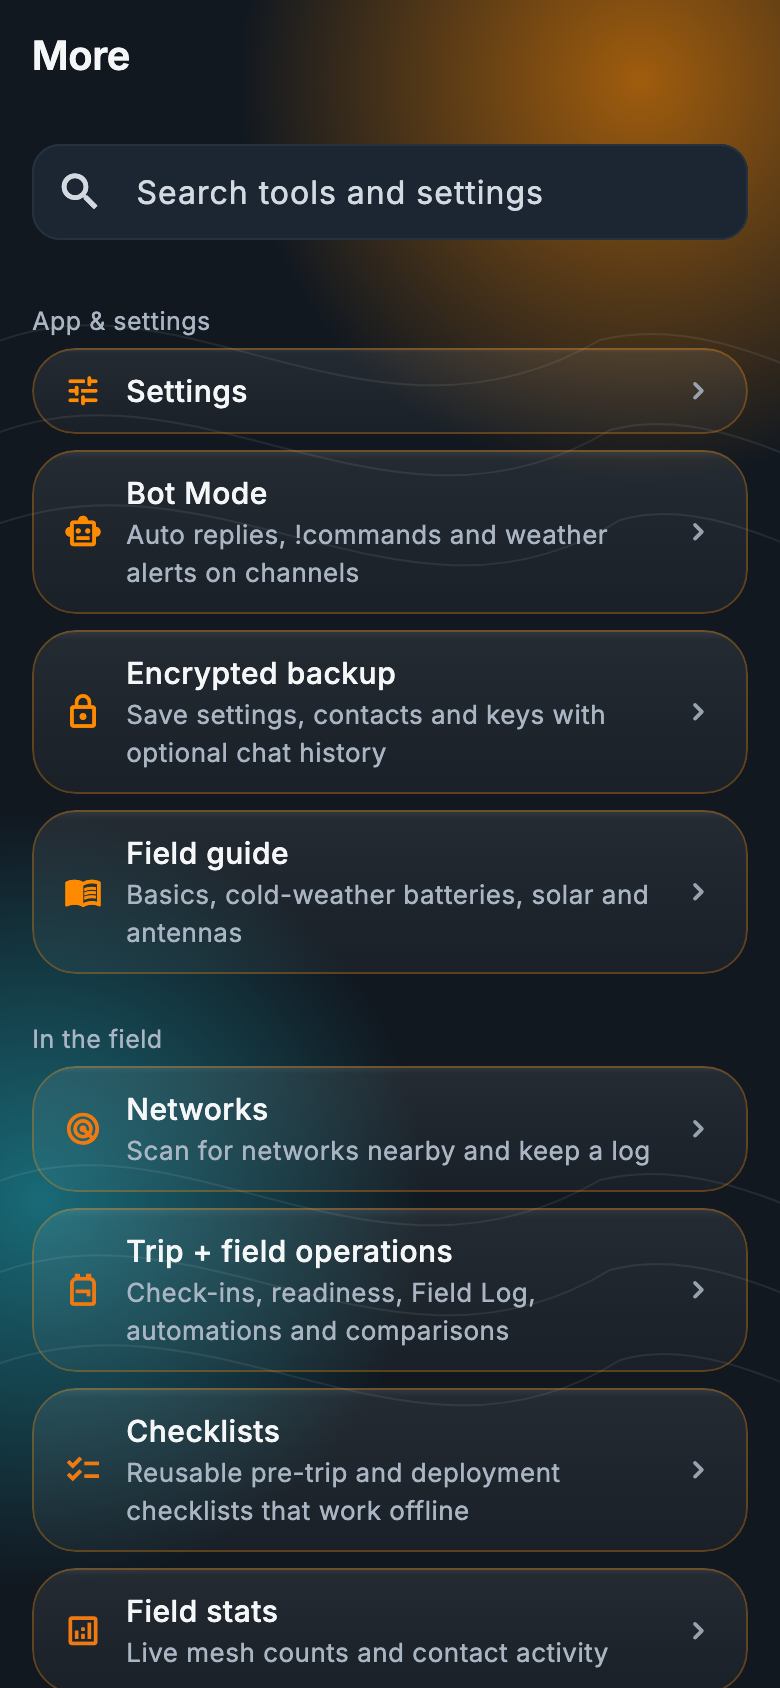
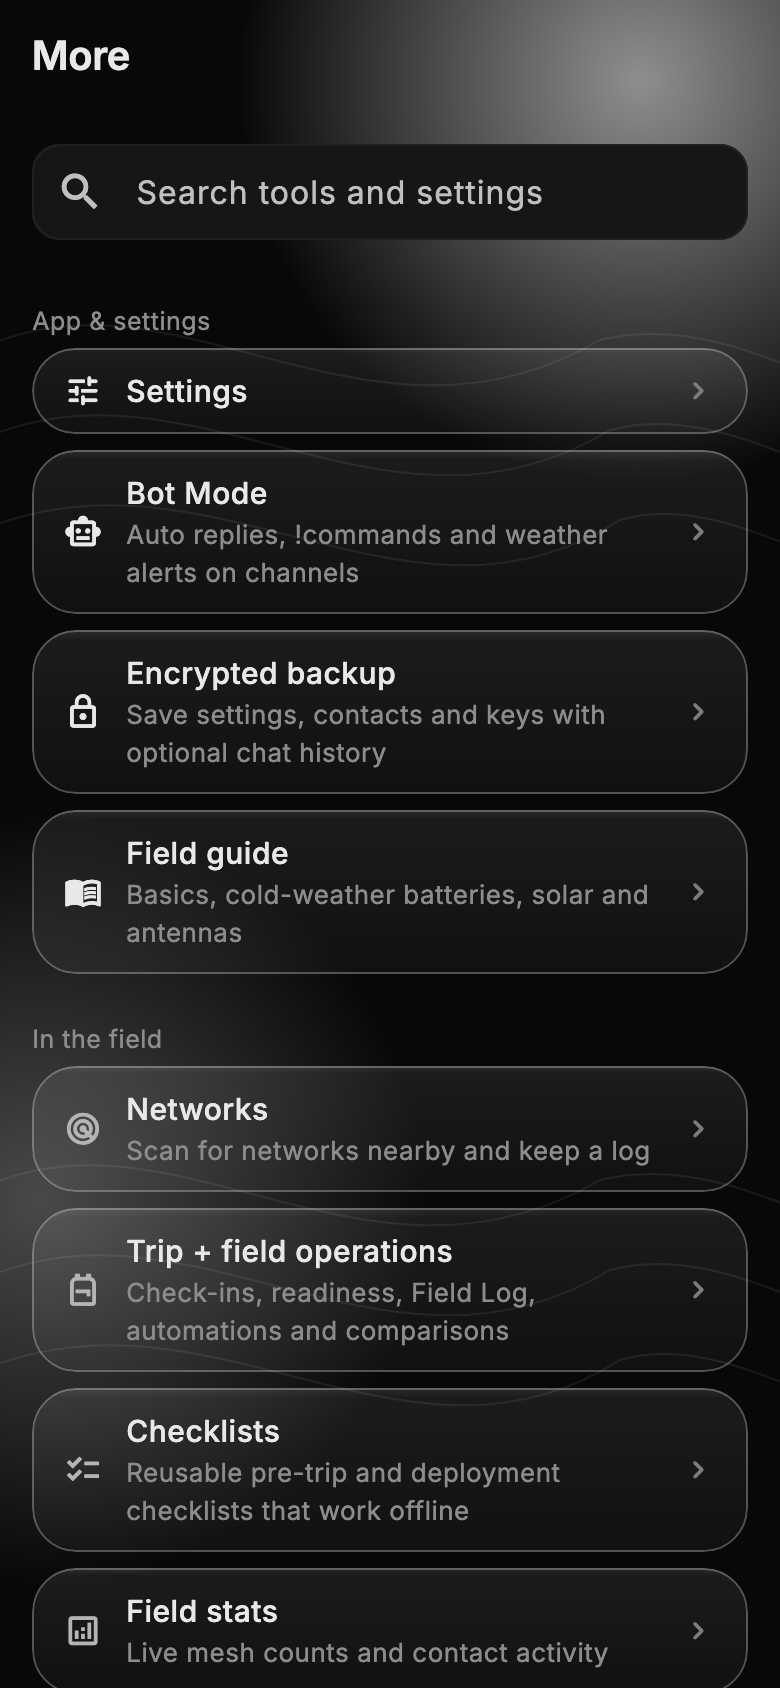
Refresh the README for BLACKOUT with new screenshots
BLACKOUT banner and icon, new screenshots of the next build's look,
the test-build section moved to rc.16 (SARNEG, rebuilt wardrive, 5,000
nodes), five themes instead of eight, and stale images removed.

diff --git a/README.md b/README.md
@@ -1,5 +1,5 @@
 <p align="center">
-  <img src="images/icon.png" width="120" alt="NOTORYX app icon">
+  <img src="images/banner.png" width="100%" alt="NOTORYX Core: Engineered for independence.">
 </p>
 
 # NOTORYX Core downloads
@@ -14,17 +14,25 @@ This repository hosts NOTORYX Core builds for Android and Mac. Get the latest fr
 
 New since rc.47: **multiple radios**, **notifications for each channel** (all, mentions only or muted), an **airtime estimate** while you type, **KML and GeoJSON import**, a **firmware update guide**, and lower CPU use over USB on Mac. Not yet tested on real radios or phones.
 
-**Test build: [10.1.0-rc.10](../../releases/tag/v10.1.0-rc.10)** (19 November 2026) lets the search in **More** find the message filter and notification settings. rc.9 made the range rings fill more of the map, and with rc.7 and rc.8 the 10.1.0 line fixes the Android start-screen hang and adds a **live traffic map** that draws heard packets hop by hop, a **stale-node badge** for nodes that have gone quiet, **range rings** around your position on the map, an on-device **spam filter** for channel chats (SOS and emergency posts are never filtered), and a button to **reset routing settings** to their defaults. rc.9 was checked on one Android phone with one radio (traffic map, range rings, Mark as spam / Not spam, reset routing); the spam filter hasn't yet caught a real message on its own, and several radios at once haven't been tried. From rc.1 to rc.6 it also has a **compass that points to any node**, a **photo or color for any node**, your own **background** behind the glass panels, the **Fresnel zone** on line of sight, **failed sends marked in the Nodes list**, chats that stay open while a dropped radio link reconnects, **Map + coverage**, **SOS resume** after a restart, identity key backup, a map-as-a-list view for screen readers, a safer offline queue, and each nearby repeater listed once. 10.0.0 stays the one to rely on.
+**Test build: [10.1.0-rc.16](../../releases/tag/v10.1.0-rc.16)** (21 November 2026), Android only for now. The 10.1.0 test builds add:
 
-**Coming in the next build: SARNEG code words.** Send grids, frequencies and times as letters from a code word your team agrees on, and tap a received `[SARNEG]` message to decode it. The same format and code-word QR code work in every NOTORYX app. It keeps numbers away from a casual listener; it isn't encryption. [What SARNEG is and why we added it](https://meshmayhem.org/notoryx/#sarneg).
+- **SARNEG code words** (rc.11): send grids, frequencies and times as letters from a code word your team agrees on, and tap a received `[SARNEG]` message to decode it. The same format and code-word QR code work in every NOTORYX app. It keeps numbers away from a casual listener; it isn't encryption. The SARNEG screen blocks screenshots (rc.15). [What SARNEG is and why we added it](https://meshmayhem.org/notoryx/#sarneg).
+- **Wardrive, rebuilt** (rc.15, colours fixed in rc.16): Discovery, Trace, Channel and Hybrid modes, free coverage from packets you hear anyway, 100 m or 300 m coverage squares, per-repeater stats, a noise-floor graph and export to GPX, KML, CSV or GeoJSON.
+- **Up to 5,000 remembered nodes** (rc.13, rc.14), including contacts your radio drops when its list is full, and **Import nodes** from a file or the clipboard.
+- A **live traffic map** that draws heard packets hop by hop, a **stale-node badge**, **range rings**, an on-device **spam filter** for channel chats (SOS and emergency posts are never filtered) and **reset routing** (rc.7 to rc.10).
+- From rc.1 to rc.6: a **compass that points to any node**, a **photo or color for any node**, your own **background**, the **Fresnel zone** on line of sight, **failed sends marked in the Nodes list**, chats that stay open while a dropped link reconnects, **Map + coverage**, **SOS resume** after a restart, identity key backup and a map-as-a-list view for screen readers.
+
+rc.16 was checked on one Android phone (wardrive screen, SARNEG screenshot block); wardrive hasn't been driven with a radio yet. The newest Mac build is [10.1.0-rc.10](../../releases/tag/v10.1.0-rc.10). 10.0.0 stays the one to rely on.
+
+**Coming in the next build: the BLACKOUT look.** A new steel eagle-N app icon and a matte-black **BLACKOUT** theme as the default, as in the screenshots here. Tactical, Okabe-Ito, Night Ops and Seasonal stay; Blaze, Neon Anarchy, Pink Overload and Bare Beauty are retired, and anyone using them moves to BLACKOUT.
 
 **Report a problem:** [open an issue](../../issues).
 
 <p align="center">
-  <img src="images/home.png" width="190" alt="Home: radio readouts, check-in, SOS and field tools on frosted glass">
+  <img src="images/home.png" width="190" alt="Home: radio readouts, check-in, hold for SOS and field tools">
   <img src="images/chats.png" width="190" alt="Chats: channels and direct conversations">
   <img src="images/nodes.png" width="190" alt="Nodes: repeaters, people, rooms and sensors with hop counts">
-  <img src="images/more.png" width="190" alt="More: every tool and setting, searchable">
+  <img src="images/traffic_map.png" width="190" alt="Live traffic map: a packet's route drawn hop by hop">
 </p>
 
 ## Why NOTORYX Core?
@@ -37,8 +45,9 @@ NOTORYX Core turns your phone or Mac and a [MeshCore](https://meshcore.io/) radi
 - **It gets your radio on the right settings.** MeshCore's community presets (USA, Canada, EU/UK, Australia and more) are built in, with the one for your country suggested first. It also knows settings local meshes have agreed on, and warns you when your radio doesn't match.
 - **It helps you find people.** A directory of public channels, channels heard on air that you haven't joined, and the #channels active online right now, each one tap to join.
 - **It reaches past the horizon.** The optional MQTT bridge shows MeshCore traffic from beyond radio range, clearly labeled **via MQTT** so it never pretends to be a radio repeat.
-- **It shows you where the mesh reaches.** Wardrive maps which repeaters hear you as you drive or hike, and telemetry badges put battery, temperature, humidity and pressure right on the map.
-- **It looks the part.** The Frosted ember look puts see-through glass over a warm glow, or over your own color, gradient or photo. Eight themes, including Night Ops to keep your night vision, a Seasonal theme and a color-blind safe Okabe-Ito theme, all checked for readable contrast.
+- **It shows you where the mesh reaches.** Wardrive maps which repeaters hear you as you drive or hike, square by square, and telemetry badges put battery, temperature, humidity and pressure right on the map.
+- **It keeps numbers off the air.** SARNEG code words turn grids, frequencies and times into letters your team can decode with one tap.
+- **It looks the part.** The BLACKOUT look (next build) is matte black, steel and frost, with see-through glass panels over a soft glow, or over your own color, gradient or photo. Five themes, including Night Ops to keep your night vision, a Seasonal theme and a color-blind safe Okabe-Ito theme, all checked for readable contrast.
 - **It runs more than one radio.** Stay connected to a handheld and a base station at once and switch between them.
 - **It speaks your language.** 18 languages.
 - **It runs your whole kit.** Repeaters, room servers, sensors, access control, a command line and Wi-Fi setup are all in one app.
@@ -79,6 +88,8 @@ NOTORYX Core turns your phone or Mac and a [MeshCore](https://meshcore.io/) radi
 - **Airtime estimate** while you type, and **per-channel notifications** (all, mentions only or muted).
 - **Share your position or a contact** from the message box. Received contacts can be added in one tap, tapping a `meshcore://` contact link in another app opens it in NOTORYX Core, and **Add contact from clipboard** accepts links, adverts (even wrapped across lines) and bare public keys.
 - **Discovered contacts:** add one with a tap, or long-press to pick several (or **Add all shown**) and add them together, up to the room left on your radio.
+- **Remembers up to 5,000 heard nodes**, including contacts your radio drops when its list is full. **Import nodes** reads a JSON or CSV list, contact links, adverts or public keys from a file or the clipboard.
+- **SARNEG code words:** a SARNEG button in the message box codes the numbers you typed, a received `[SARNEG]` message gets a tap-to-decode line, and the code word can be shared by QR code. Not encryption. The SARNEG screen blocks screenshots.
 - **Region tags:** a channel post scoped to a region shows it next to the time, for example **📍 ct**.
 - **Read messages aloud** (optional) and on-device translation.
 - **Area-limited channel messages** that stay within a radius of you (needs radios running flood-corridor firmware).
@@ -88,7 +99,7 @@ NOTORYX Core turns your phone or Mac and a [MeshCore](https://meshcore.io/) radi
 ### Maps, paths and coverage
 - Live mesh map with **offline map packs**, and a button to jump to your position (phone GPS, or your radio's).
 - **Map telemetry:** battery, temperature, humidity or pressure badges on the map. Readings dim after an hour and hide after a day, and the map remembers your choice.
-- **Wardrive:** ping every 20 s to 2 min as you move and map which repeaters heard you, and how well, both ways. Pings use your phone's GPS, the map follows you, and drives are saved.
+- **Wardrive:** map which repeaters heard you as you drive or hike, and how well, both ways. **Discovery** (zero-hop, the default), **Trace** (one repeater, both ways), **Channel** (a short post to #wardriving that floods the mesh, never the default, and no position goes on air) and **Hybrid**. Packets your radio hears anyway are mapped at no airtime cost, pings wait until you've moved, and the map is coloured in 100 m or 300 m squares with per-repeater stats. Export GPX, KML, CSV or GeoJSON, optionally keep running with the screen off, and drives are saved.
 - **Network scan** (More → Networks): find MeshCore networks nearby. A radio only hears networks on its exact settings, so a scan switches yours to each network in turn and switches back. **Quick** (the default) sends one zero-hop discover ping on each and listens about 8 s, so a scan takes well under a minute; **Thorough** only listens, 30–90 s each, and also finds networks without a repeater in range. Each network heard is logged with the time, place, signal and its nodes, so you can map it, export CSV or GPX, save it, or join it with one tap. You're off your own mesh while it scans, so it won't run during an SOS or a trip.
 - **Path graph:** every path you've heard, drawn as flows from far repeaters to you, with the busiest repeaters ranked. Short 1-byte hops are matched to a specific repeater using longer paths. Tap a repeater in the chart or the list to see where its traffic comes from and goes.
 - **RX log** (More → Tools): every packet your radio hears, live, with type, route, hops and signal. Filter, pause, export CSV, or tap one for its path and raw bytes. Kept in memory only.
@@ -140,7 +151,7 @@ NOTORYX Core turns your phone or Mac and a [MeshCore](https://meshcore.io/) radi
 - **Team setup:** share radio settings, channels, waypoints and routes by QR code or file, passphrase-encrypted.
 - **Community moderation** (off by default): report spam to human moderators.
 - **Battery saver**, adjustable refresh rate and app-icon shortcuts.
-- **Eight themes:** Blaze (default), Neon Anarchy, Tactical, Pink Overload, Bare Beauty, Okabe-Ito (color-blind safe), Night Ops (low light) and Seasonal, all meeting WCAG AA contrast. An optional second theme for dark mode, and your own **background** (color, gradient, color blend or photo).
+- **Five themes:** BLACKOUT (default from the next build; matte black, steel and frost, with signal, warning and SOS colors kept), Tactical, Okabe-Ito (color-blind safe), Night Ops (low light) and Seasonal, all meeting WCAG AA contrast. An optional second theme for dark mode, and your own **background** (color, gradient, color blend or photo).
 - **Node looks:** give any node a color or photo.
 - **Color-blind safe colors:** node types on the map and in lists (people, repeaters, rooms and sensors) use the [Okabe-Ito palette](https://jfly.uni-koeln.de/color/), whose colors stay distinct with the common forms of color blindness. The **Okabe-Ito** theme goes further: good, warning and bad signal are blue-green, yellow and vermillion instead of green and red.
 
@@ -150,38 +161,39 @@ NOTORYX Core turns your phone or Mac and a [MeshCore](https://meshcore.io/) radi
 - Available in **18 languages**.
 
 <p align="center">
-  <img src="images/routes.png" width="190" alt="Route Intelligence with the best repeaters near you">
-  <img src="images/path_graph.png" width="190" alt="Path graph showing how messages reach you">
-  <img src="images/access_control.png" width="190" alt="Repeater access control with admin, read & write and read-only roles">
+  <img src="images/trip.png" width="190" alt="Trip and field operations: plan, start a trip and send check-ins">
+  <img src="images/sarneg.png" width="190" alt="SARNEG code word setup">
+  <img src="images/wardrive.png" width="190" alt="Wardrive: modes, coverage squares and legend">
+  <img src="images/map_coverage.png" width="190" alt="Map + coverage: every coverage and map tool in one place">
+</p>
+
+<p align="center">
+  <img src="images/channel_chat.png" width="190" alt="A channel chat with repeats and delivery ticks">
+  <img src="images/dm_chat.png" width="190" alt="A direct chat with delivery status">
+  <img src="images/more.png" width="190" alt="More: every tool and setting, searchable">
   <img src="images/settings.png" width="190" alt="Settings">
 </p>
 
 <p align="center">
-  <img src="images/channel_directory.png" width="190" alt="Channel directory: local, emergency and active channels">
+  <img src="images/routes.png" width="190" alt="Route Intelligence with the best repeaters near you">
+  <img src="images/path_graph.png" width="190" alt="Path graph showing how messages reach you">
   <img src="images/networks.png" width="190" alt="Networks: scan for nearby networks and keep a log">
+  <img src="images/battery_watch.png" width="190" alt="Battery watch: repeater battery history and trend">
 </p>
 
 <p align="center">
-  <img src="images/background.png" width="190" alt="Background: theme glow, color, gradient, color blend or your own photo behind the glass">
-  <img src="images/theme_settings.png" width="190" alt="Theme settings with a different theme in dark mode">
-  <img src="images/checklist_run.png" width="190" alt="Before a trip checklist">
-  <img src="images/firmware_guide.png" width="190" alt="Guided firmware update">
+  <img src="images/channel_directory.png" width="190" alt="Channel directory: local, emergency and active channels">
+  <img src="images/access_control.png" width="190" alt="Repeater access control with admin, read & write and read-only roles">
 </p>
-<p align="center"><em>Captured on a phone running 10.1.0-rc.5 with the Night Ops theme.</em></p>
 
 <p align="center">
-  <img src="images/home.png" width="150" alt="Blaze theme">
-  <img src="images/home_neon_anarchy.png" width="150" alt="Neon Anarchy theme">
+  <img src="images/home.png" width="150" alt="BLACKOUT theme">
   <img src="images/home_tactical.png" width="150" alt="Tactical theme">
-  <img src="images/home_pink_overload.png" width="150" alt="Pink Overload theme">
-</p>
-<p align="center">
-  <img src="images/home_bare_beauty.png" width="150" alt="Bare Beauty theme">
   <img src="images/home_okabe_ito.png" width="150" alt="Okabe-Ito color-blind safe theme">
   <img src="images/home_night_ops.png" width="150" alt="Night Ops low-light theme">
   <img src="images/home_seasonal.png" width="150" alt="Seasonal theme in autumn">
 </p>
-<p align="center"><em>Blaze · Neon Anarchy · Tactical · Pink Overload · Bare Beauty · Okabe-Ito · Night Ops · Seasonal</em></p>
+<p align="center"><em>BLACKOUT · Tactical · Okabe-Ito · Night Ops · Seasonal. Screenshots show the next build's look, rendered from the app with sample data rather than captured on a phone.</em></p>
 
 > NOTORYX Core 10.0.0 is the first stable release. It's tested in automated tests and a mesh simulator but not yet on a wide range of phones and radios. It is not a replacement for an emergency service or a satellite messenger.
 
